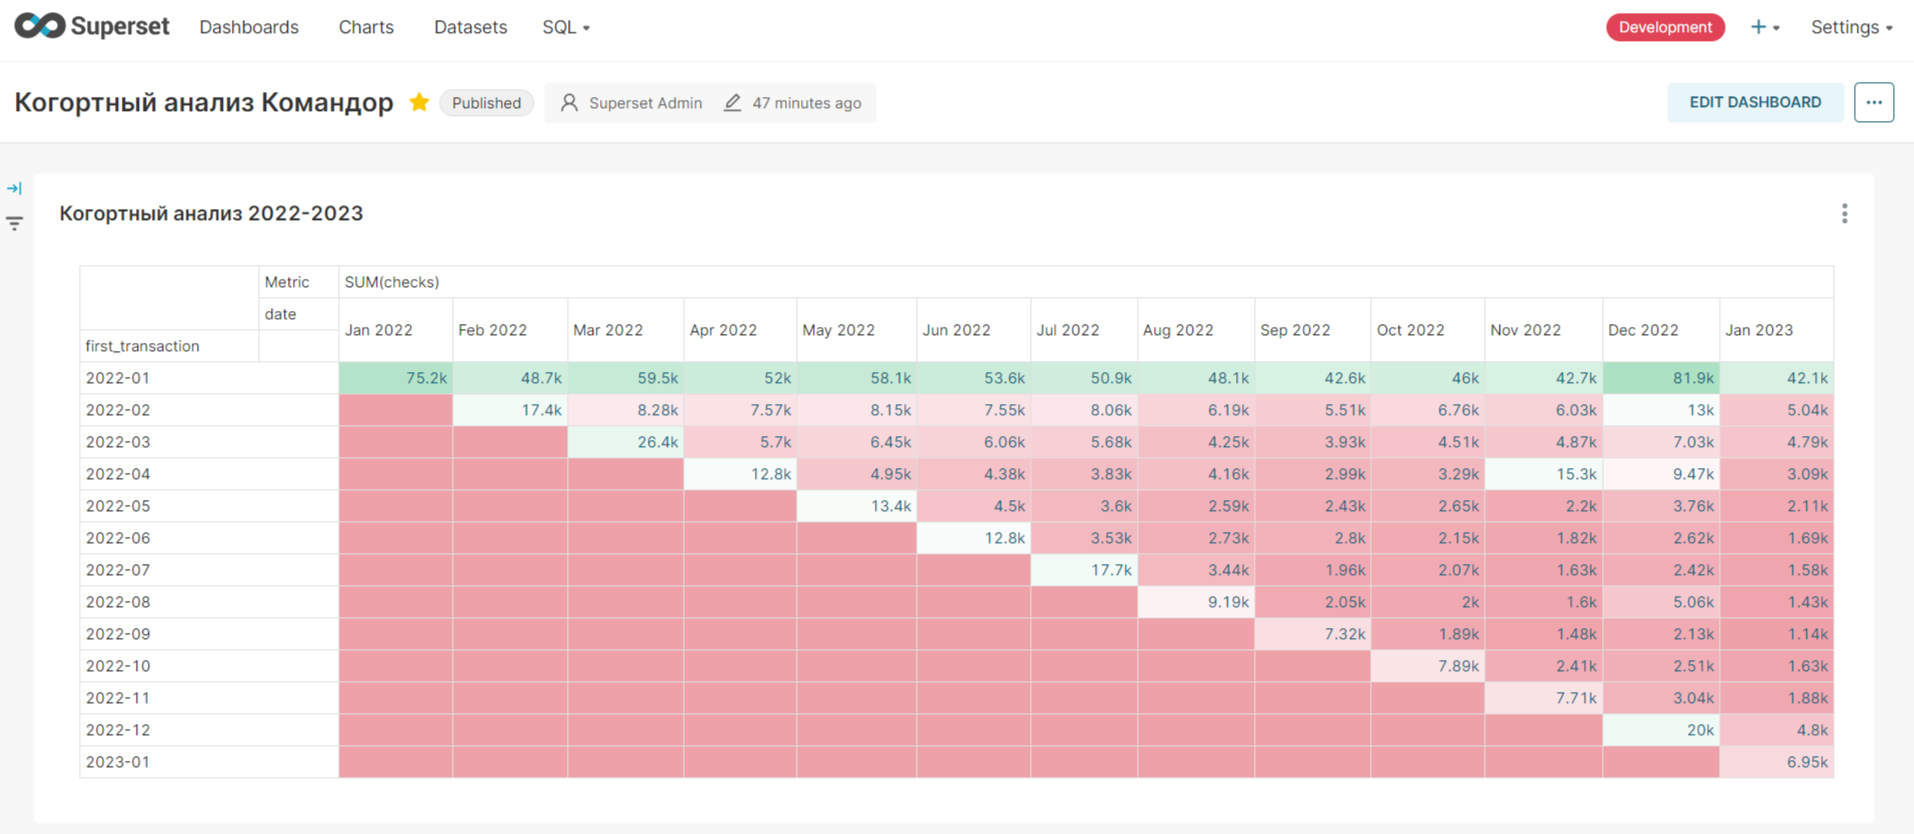
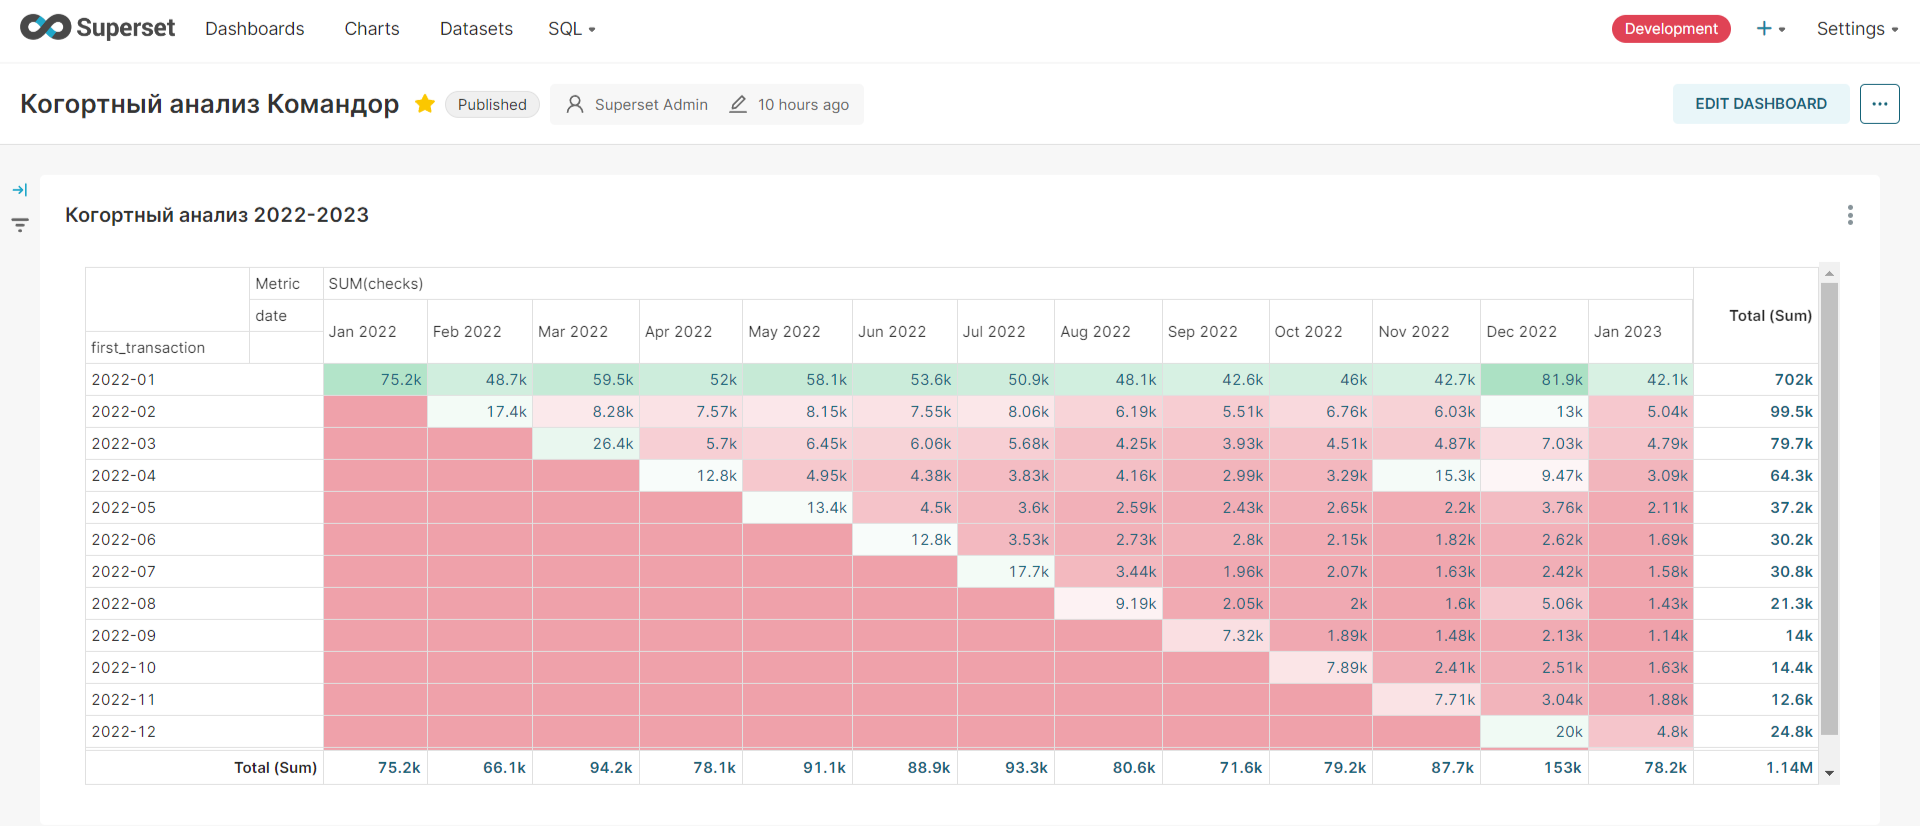
superset

diff --git a/readme.md b/readme.md
@@ -40,4 +40,6 @@ http://195.19.93.83:8088/superset/dashboard/http1951993838088komandor/
 
 ![dashboard](dashboard.png)
 
-Вывод, лучше всего себя показывает когорта января 2022
+Вывод, лучше всего себя показывает когорта января 2022, но так как данные о этих покупателях до этого неизвестны, скорее всего они входят в предыдущие когорты и являются постоянными покупателями.
+Кроме этой когорты наибольший эффект у когорты марта и февраля 2022 года.
+Кроме этого можно выделить когорту декабря 2022 года, что скорее всего является результатом новогодних акций.
